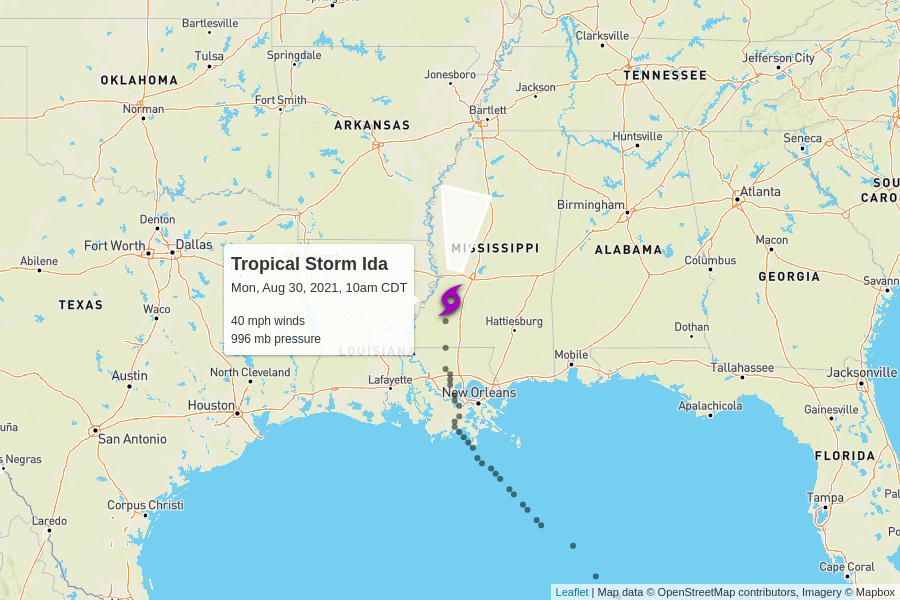
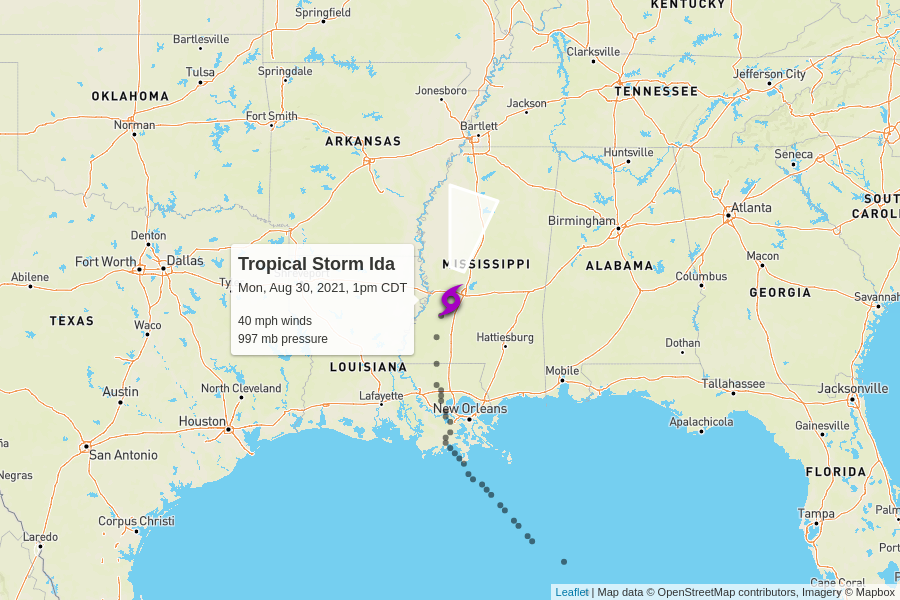
automatic update

diff --git a/docs/index.html b/docs/index.html
@@ -100,7 +100,7 @@
         <td colspan="6" class="storm category-0">
           <h2>
             Tropical Storm Ida
-            <p class="updated">last updated <span data-time>2021-08-30T15:00:00.000Z</span></p>
+            <p class="updated">last updated <span data-time>2021-08-30T18:00:00.000Z</span></p>
           </h2>
         </td>
       </tr>
@@ -116,11 +116,11 @@
       <tr>
         <td class="spacer"></td>
         <td>40 mph</td>
-        <td>996 mb</td>
+        <td>997 mb</td>
         <td>
-          9 mph to the north
+          9 mph to the north-northeast
           <br/>
-          <span style="display: inline-block; font-size: 1.5em; rotate: 10deg;">↑</span>
+          <span style="display: inline-block; font-size: 1.5em; rotate: 15deg;">↑</span>
         </td>
         <td><a href="https://raw.githubusercontent.com/mgwalker/atlantic-hurricanes/main/data/csv/AL092021.csv">AL092021.csv</a></td>
         <td><a href="https://www.nhc.noaa.gov/archive/2021/IDA.shtml?">NHC advisories</a></td>
